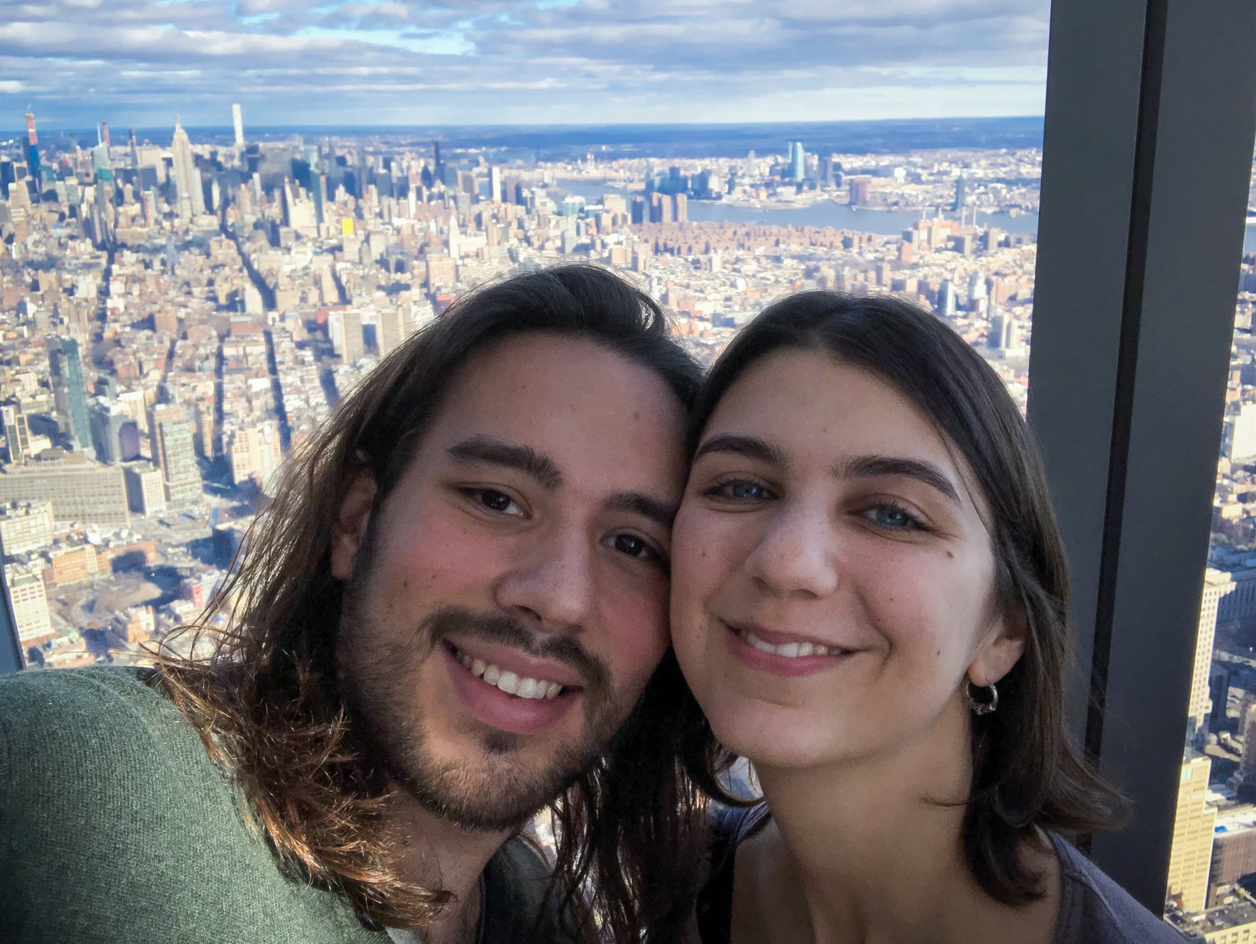
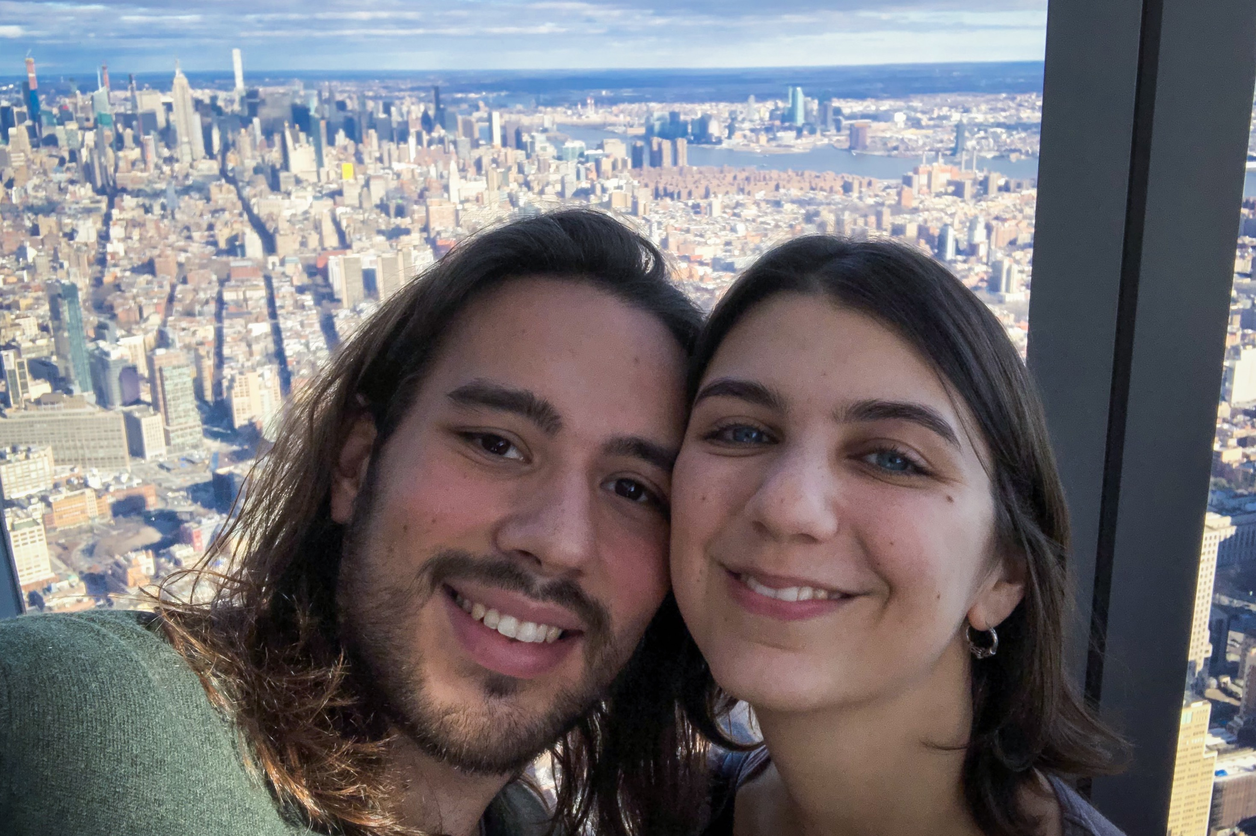
adjusted welcome img size

diff --git a/assets/css/style.css b/assets/css/style.css
@@ -1150,7 +1150,7 @@ footer a {
     font-size: .9rem;
   }
   .section-img {
-    min-height: 610px;
+    min-height: 630px;
   }
   .location-img {
     min-height: 255px;

diff --git a/assets/css/style.scss b/assets/css/style.scss
@@ -1060,7 +1060,7 @@ footer{
     }
 
     .section-img{
-        min-height: 610px;
+        min-height: 630px;
     }
     
     .location-img{
